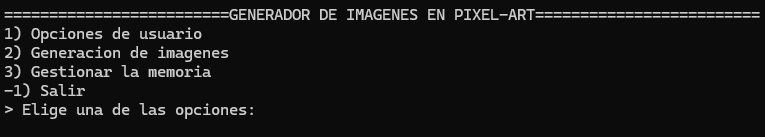
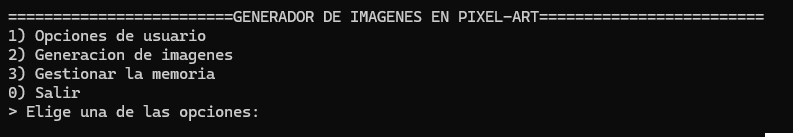
fin manual de usuario

diff --git a/GeneratorImages/main.cpp b/GeneratorImages/main.cpp
@@ -66,7 +66,7 @@ void userOptions(){
         cout<<"\t5) Ver imagenes de usuario"<<endl;
         cout<<"\t6) Agregar imagen a usuario"<<endl;
         cout<<"\t7) Eliminar imagen de usuario"<<endl;
-        cout<<"\t-1) Volver"<<endl;
+        cout<<"\t0) Volver"<<endl;
         cout<<"\t> Elige una de las opciones: ";
         cin>>option;
 
@@ -153,7 +153,7 @@ void userOptions(){
                 continue;
             }
         }
-    } while(option != "-1");
+    } while(option != "0");
 }
 
 void imagesOptions(){
@@ -163,7 +163,7 @@ void imagesOptions(){
         cout<<"\t1) Generar por usuario"<<endl;
         cout<<"\t2) Generar por capas"<<endl;
         cout<<"\t3) Generar por recorrido"<<endl;
-        cout<<"\t-1) Volver"<<endl;
+        cout<<"\t0) Volver"<<endl;
         cout<<"\t> Elige una de las opciones: ";
         cin>>option;
 
@@ -184,7 +184,7 @@ void imagesOptions(){
         } else if (option == "3"){
             generateBySearch();
         }
-    } while(option != "-1");
+    } while(option != "0");
 }
 
 void generateDotFile(DotFile* file, bool delete_file, bool debugMessage = true){
@@ -207,7 +207,7 @@ void memoryOptions(){
         cout<<"\t3) Mostrar capa"<<endl;
         cout<<"\t4) Mostrar Imagen y arbol de capas"<<endl;
         cout<<"\t5) Mostrar Arbol de usuarios"<<endl;
-        cout<<"\t-1) Volver"<<endl;
+        cout<<"\t0) Volver"<<endl;
         cout<<"\t> Elige una de las opciones: ";
         cin>>option;
 
@@ -254,7 +254,7 @@ void memoryOptions(){
             generateDotFile(&temp_file, true);
         }
 
-    } while(option != "-1");
+    } while(option != "0");
 }
 
 
@@ -268,14 +268,14 @@ int main()
         cout<<"1) Opciones de usuario"<<endl;
         cout<<"2) Generacion de imagenes"<<endl;
         cout<<"3) Gestionar la memoria"<<endl;
-        cout<<"-1) Salir"<<endl;
+        cout<<"0) Salir"<<endl;
         cout<<"> Elige una de las opciones: ";
         cin>>option;
 
         if (option == "1") userOptions();
         if (option == "2") imagesOptions();
         if (option == "3") memoryOptions();
-    } while(option != "-1");
+    } while(option != "0");
 
     //generateDot(true);
     return 0;

diff --git a/ManualDeUsuario.md b/ManualDeUsuario.md
@@ -6,22 +6,52 @@ En la carpeta de ruta "GeneratorImages/data" encontraras 3 archivos:
  -usuarios.usr
 
 Estos archivos sirven para cargar datos previo a la ejecución de la aplicación, puedes cargar la cantidad de datos que desees, pero debes seguir el siguiente formato;
-* <H2>ARCHIVO capas.cap</H2>
+* <b><H3>ARCHIVO capas.cap</H3></b>
 id_unico {
     fila_pixel, columna_pixel, color;
 }
 
-* <H2>ARCHIVO imagenes.img</H2>
+* <b><H3>ARCHIVO imagenes.img</H3></b>
 id_unico {
-    id_capa_existente, ..., id_capa_existente;
+    id_capa_existente, ..., id_capa_existente
 }
 
-* <H2>ARCHIVO usuarios.usr</H2>
+* <b><H3>ARCHIVO usuarios.usr</H3></b>
 nombreUsuario: id_imagen_existente, ..., id_capa_existente;
 
 <H2>INTERFAZ Y MENÚ PRINCIPAL</H2>
 ![menu_principal] (ImgManual/menu_principal.png)
 
+El menú principal lista las opciones mostradas, catalogando cada opción según su funcionalidad, si deseas salir del sistema puedes seleccionar 0 en el menú principal, 0 es el caracter por defecto para salir del menú actual. El sistema sigue la siguiente simbologia:
+
+* !: Información de evento provocado por el sistema
+* x: Fallo en algun apartado del sistema
+* >: Solicitud de entrada por parte del usuario
+
 <H2>OPCIONES DE USUARIO</H2>
+![menu_usuario] (ImgManual/menu_usuario.png)
+
+El menú presenta las opciones principales para gestionar los usuario, a continuación se describe cada una de las opciones:
+* <b><H3>1) CREAR UN NUEVO USUARIO</H3></b>
+Permite crear un nuevo usuario, solicitando unicamente un nombre de usuario, el id se agrega automatico autoincremental.
+
+* <b><H3>2) VER USUARIOS</H3></b>
+Muestra todos los usuarios que están registrados en el sistema siguiendo el formato "ID: | Usuario:".
+
+* <b><H3>3) ELIMINAR USUARIO</H3></b>
+Se solicita un ID de usuario existente y se remueve del sistema.
+
+* <b><H3>4) MODIFICAR USUARIO</H3></b>
+Se solicita un ID de usuario existente y luego se solicita un nuevo nombre para el usuario seleccionado.
+
+* <b><H3>5) VER IMAGENES DE USUARIO</H3></b>
+Lista todas las imagenes que el usuario tiene registradas, siguiendo el formato "Imagen: ".
+
+* <b><H3>6) AGREGAR IMAGEN A USUARIO</H3></b>
+Se solicita un ID de usuario y luego se listan todas las imagenes que están registradas en el sistema, se solicita seleccionar un ID de imagen y luego se le asigna esa imagen al usuario, una imagen puede ser asignada a varios usuarios, pero la asignación es unica, por lo que no se puede asignar una imagen más de una vez.
+
+* <b><H3>7) ELIMINAR IMAGEN DE USUARIO</H3></b>
+Se solicita el ID de un usuario y luego el ID de una de las imagenes que posee el usuario, si el ID no existe entre las imagenes del usuario el sistema solo lo rechazará. Esta opción no elimina la imagen del sistema, solo le quita la dependencia al usuario de la imagen.
+
 <H2>GENERACIÓN DE IMAGENES</H2>
 <H2>GESTIONAR LA MEMORIA</H2>
